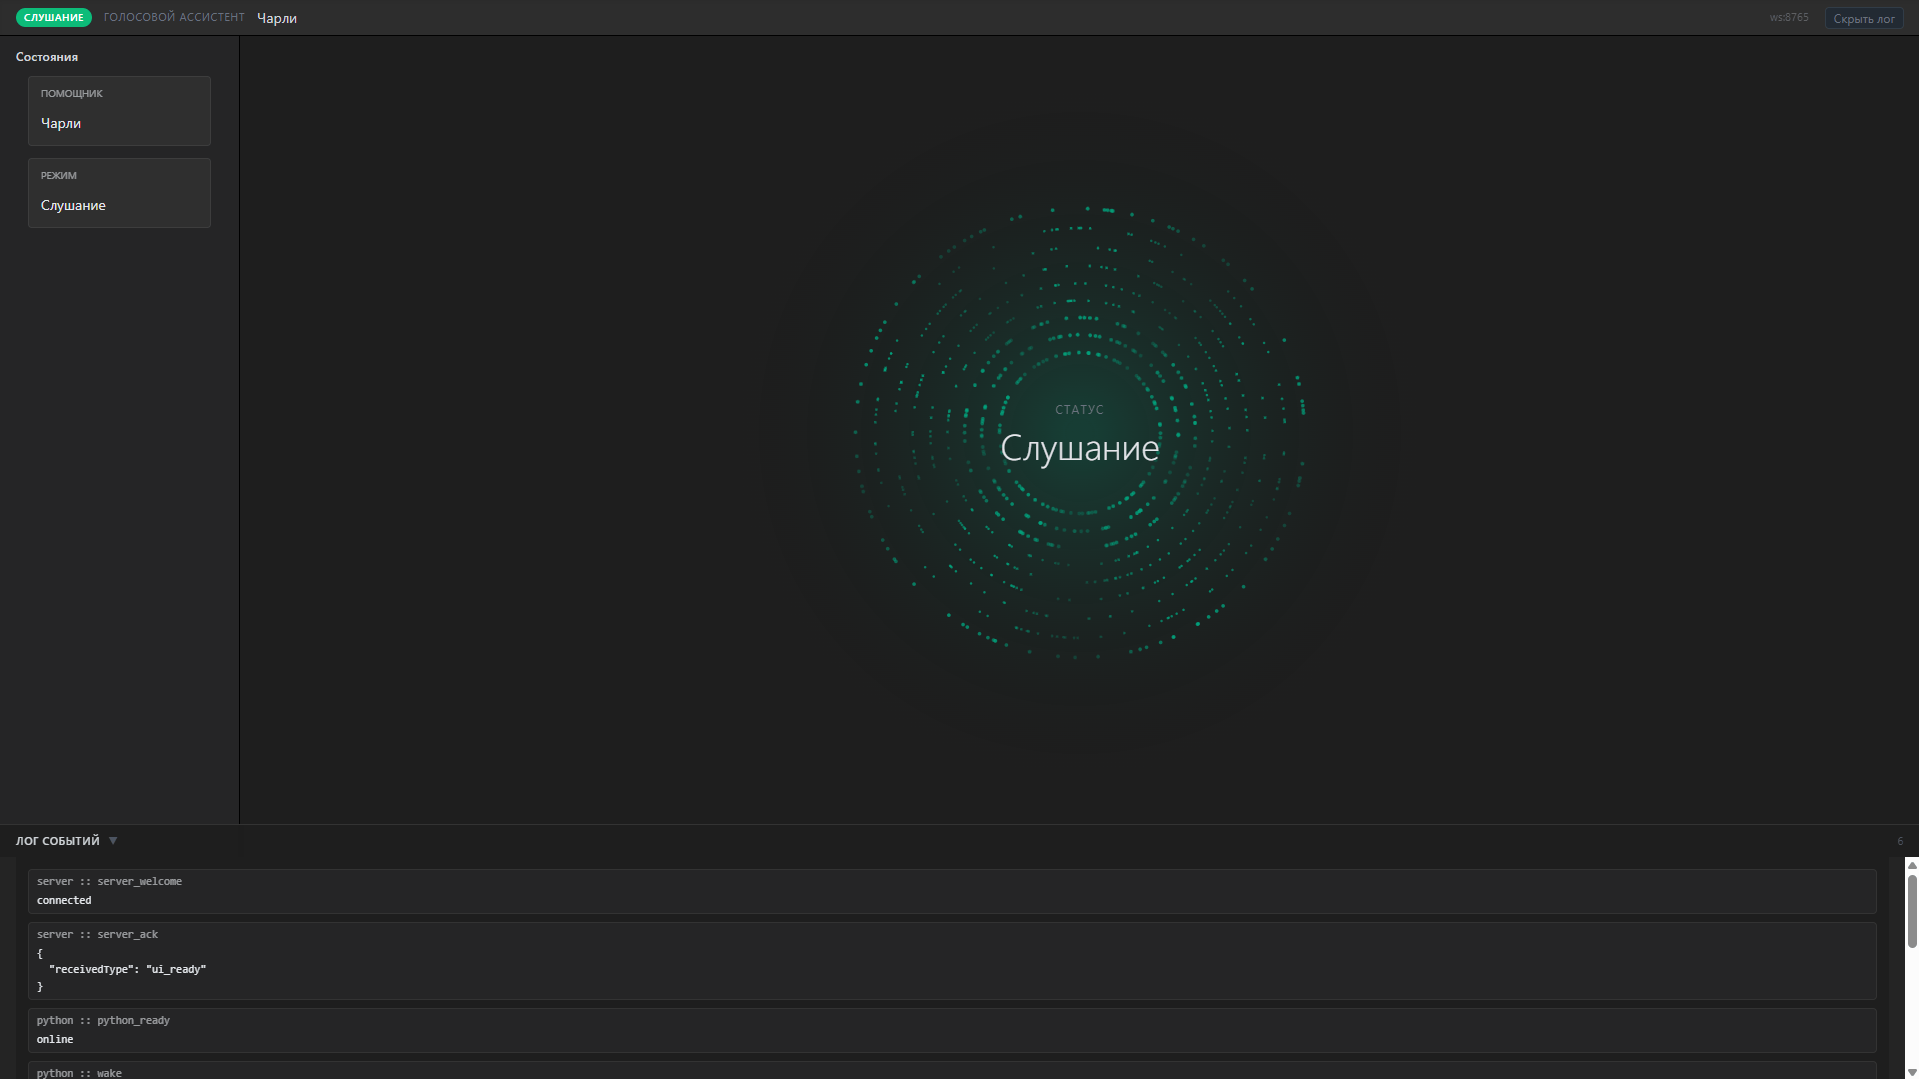
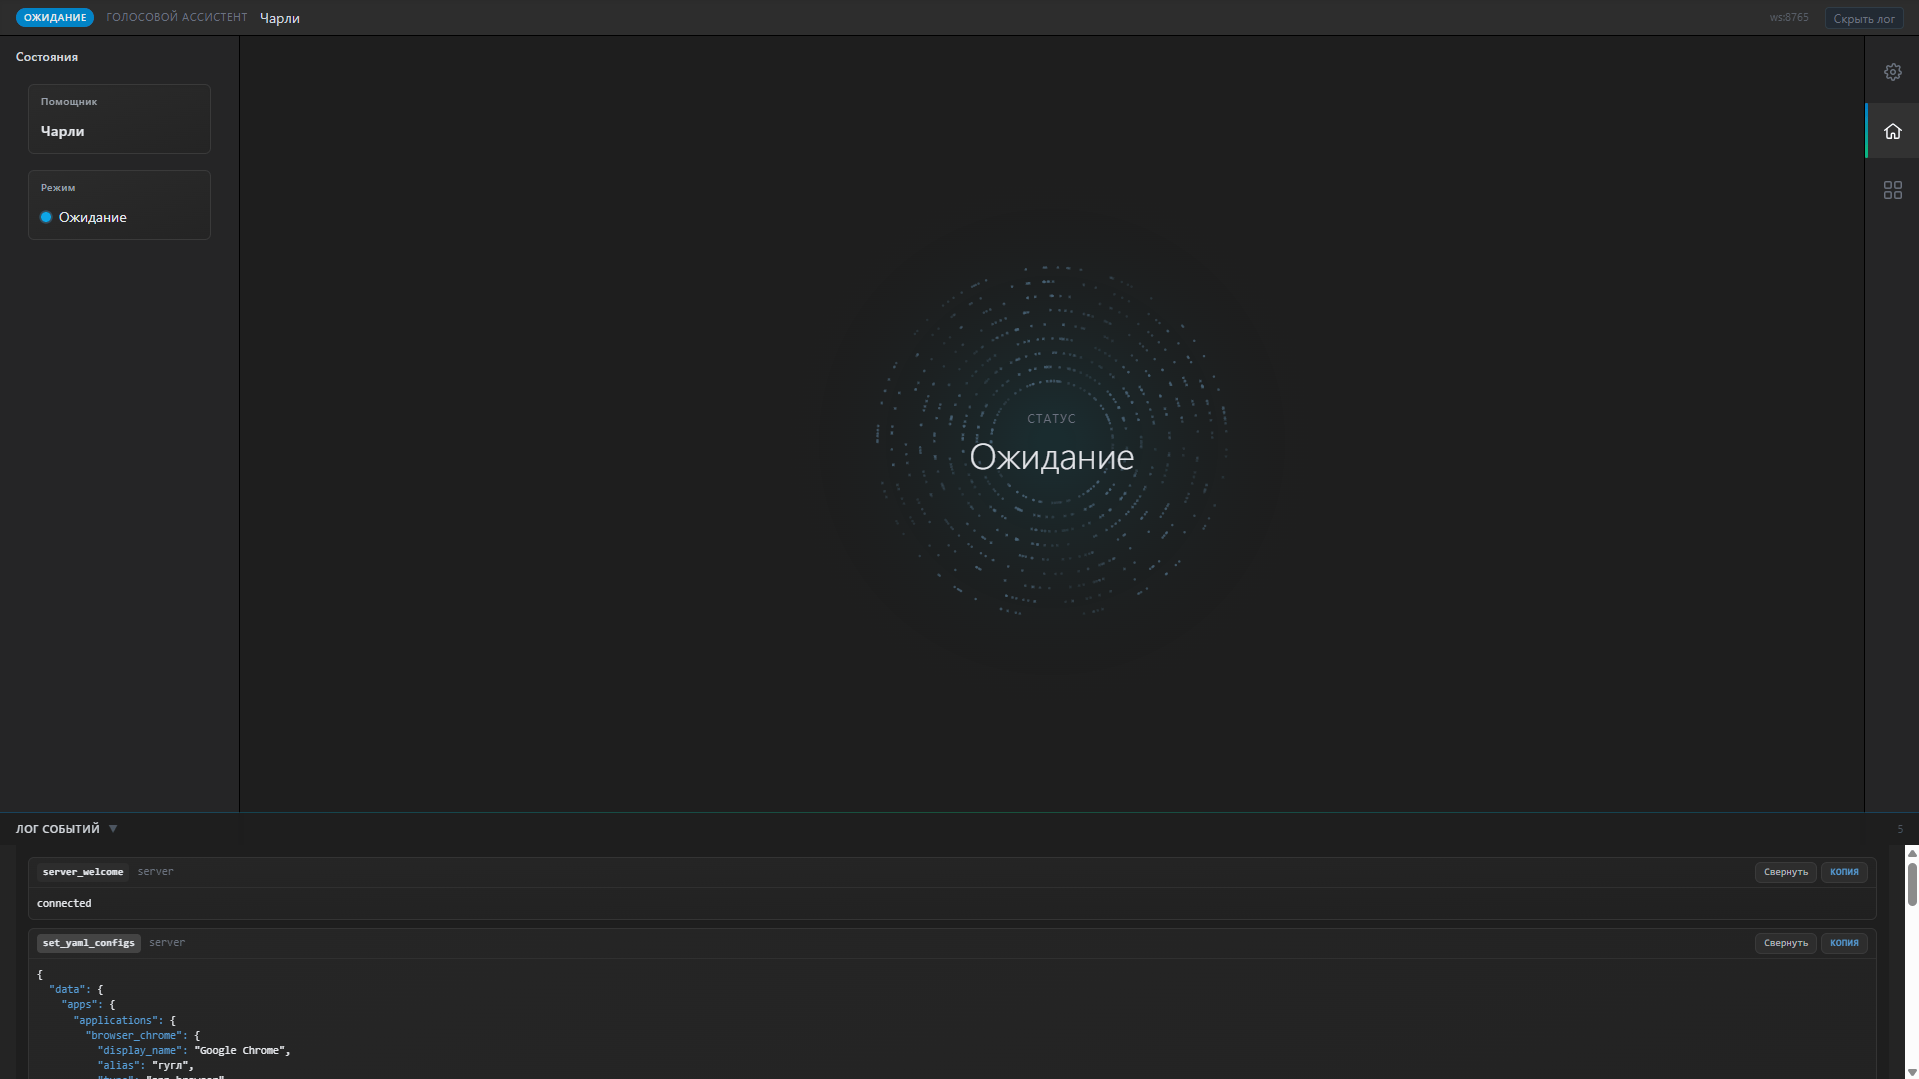
feat(UI): improved UI - Added widgets

diff --git a/src/app/ts/ui/organisms/EventLog.tsx b/src/app/ts/ui/organisms/EventLog.tsx
@@ -1,4 +1,5 @@
-import React, { useState, useMemo } from 'react';
+import React, { useState } from 'react';
+import { Toast } from '../atoms';
 
 interface Msg { type: string; payload: any; from?: string; _ts?: number }
 interface Props { messages: Msg[] }
@@ -10,8 +11,8 @@ function highlightJson(obj: any) {
     .replace(/(&)/g,'&amp;')
     .replace(/</g,'&lt;')
     .replace(/>/g,'&gt;')
-    .replace(/("(\\"|[^"])*"\s*:)/g, '<span class="text-[#569CD6]">$1</span>') // keys
-    .replace(/(:\s"(\\"|[^"])*")/g,'<span class="text-[#CE9178]">$1</span>') // string values
+    .replace(/("(\\"|[^"])*"\s*:)/g, '<span class="text-[#569CD6]">$1</span>')
+    .replace(/(:\s"(\\"|[^"])*")/g,'<span class="text-[#CE9178]">$1</span>')
     .replace(/\b(true|false|null)\b/g,'<span class="text-[#569CD6]">$1</span>')
     .replace(/\b(-?\d+(?:\.\d+)?)\b/g,'<span class="text-[#B5CEA8]">$1</span>');
 }
@@ -25,6 +26,7 @@ const typeColors: Record<string,string> = {
 
 const EventLog: React.FC<Props> = ({ messages }) => {
   const [expanded, setExpanded] = useState<Record<number, boolean>>({});
+  const [toasts, setToasts] = useState<{ id: number; message: string }[]>([]);
 
   const toggle = (i: number, defaultOpen: boolean) => setExpanded(e => {
     const current = e[i];
@@ -53,7 +55,12 @@ const EventLog: React.FC<Props> = ({ messages }) => {
                   className='relative px-2 py-0.5 rounded-md border border-[#3a3a3a] bg-[#2d2d2d] hover:border-[#4a4a4a] hover:bg-[#343434] text-gray-300/80 hover:text-gray-100 transition-colors text-[10px]'
                 >{isOpen?'Свернуть':'Развернуть'}</button>
                 <button
-                  onClick={()=>navigator.clipboard.writeText(typeof payload==='string'?payload:JSON.stringify(payload,null,2))}
+                  onClick={()=>{
+                    let id = Date.now(); 
+                    navigator.clipboard.writeText(typeof payload==='string'?payload:JSON.stringify(payload,null,2))
+                    setToasts(prev => [...prev, { id, message: 'Скопировано в буфер обмена' }]);
+                    setTimeout(() => setToasts(prev => prev.filter(t => t.id !== id)), 3500);
+                  }}
                   className='px-2 py-0.5 rounded-md border border-[#3a3a3a] bg-[#2d2d2d] hover:border-[#4a4a4a] hover:bg-[#343434] text-[#569CD6] hover:text-[#6ab8ff] text-[10px] font-semibold tracking-wide'
                 >КОПИЯ</button>
               </div>
@@ -67,6 +74,11 @@ const EventLog: React.FC<Props> = ({ messages }) => {
         );
       })}
       {messages.length===0 && <div className='opacity-50'>Нет событий</div>}
+      <div className='pointer-events-none fixed top-4 right-4 z-50 flex flex-col gap-3 max-w-sm'>
+        {toasts.map(t => (
+          <Toast key={t.id} title={t.message} />
+        ))}
+      </div>
     </div>
   );
 };

diff --git a/src/app/ts/ui/molecules/widgets/BatteryStatus.tsx b/src/app/ts/ui/molecules/widgets/BatteryStatus.tsx
@@ -1,0 +1,55 @@
+import { useEffect, useState } from "react";
+
+const BatteryStatus = () => {
+    const [level, setLevel] = useState<number|null>(null);
+    const [charging, setCharging] = useState<boolean|null>(null);
+
+    useEffect(() => {
+        let battery: any = null;
+        let mounted = true;
+        const nav = navigator as Navigator & { getBattery?: () => Promise<any> };
+        if (typeof nav.getBattery === 'function') {
+            nav.getBattery().then((b: any) => {
+                battery = b;
+                function update() {
+                    if (!mounted) return;
+                    setLevel(Math.round(battery.level * 100));
+                    setCharging(battery.charging);
+                }
+                update();
+                battery.addEventListener('levelchange', update);
+                battery.addEventListener('chargingchange', update);
+            });
+        }
+        return () => {
+            mounted = false;
+            if (battery) {
+                battery.removeEventListener('levelchange', ()=>{});
+                battery.removeEventListener('chargingchange', ()=>{});
+            }
+        };
+    }, []);
+
+    let color = level!==null && level<=20 ? 'from-red-500 to-red-700' : 'from-[#0dbc79] to-[#007acc]';
+    let icon = charging ? '⚡' : level!==null && level<=20 ? '🔋' : '🔌';
+    let label = charging===true ? 'Заряжается' : charging===false ? 'Не заряжается' : 'Батарея';
+    return (
+        <div className='pointer-events-none z-10'>
+            <div className='clock-card border-grad relative px-5 py-3 rounded-lg shadow-[0_4px_18px_-6px_rgba(0,0,0,0.65)] backdrop-blur-md min-w-[172px] overflow-hidden'>
+                <div className='absolute inset-0 opacity-[0.13] bg-[radial-gradient(circle_at_80%_15%,rgba(0,122,204,0.5),transparent_60%)]' />
+                <div className='relative'>
+                    <div className='flex items-center justify-between mb-1'>
+                        <div className='text-[10px] tracking-[0.2em] uppercase text-gray-500 font-medium'>БАТАРЕЯ</div>
+                        <div className={`h-[3px] w-8 rounded-full bg-gradient-to-r ${color} opacity-70`} />
+                    </div>
+                    <div className='flex items-end gap-2 leading-none'>
+                        <span className={`text-lg font-semibold ${level!==null && level<=20?'text-red-500':'text-[#0dbc79]'}`}>{icon} {level!==null? level+'%' : '—'}</span>
+                    </div>
+                    <div className='text-[11px] mt-1 text-gray-400 leading-snug'>{label}</div>
+                </div>
+            </div>
+        </div>
+    );
+};
+
+export default BatteryStatus;

diff --git a/src/app/ts/ui/molecules/widgets/TimeTracker.tsx b/src/app/ts/ui/molecules/widgets/TimeTracker.tsx
@@ -1,0 +1,38 @@
+import { useEffect, useState } from "react";
+
+const TimeTracker = () => {
+    const [, forceTick] = useState(0);
+    useEffect(()=>{ const id = setInterval(()=>forceTick(x=>x+1),1000); return ()=>clearInterval(id); },[]);
+    const now = new Date();
+    const hh = now.getHours().toString().padStart(2,'0');
+    const mm = now.getMinutes().toString().padStart(2,'0');
+    const ss = now.getSeconds().toString().padStart(2,'0');
+    const dateStr = now.toLocaleDateString('ru-RU', { weekday:'long', day:'numeric', month:'long'});
+    const gmt = now.getTimezoneOffset() / -60;
+
+    return (
+        <div className='pointer-events-none z-10'>
+            <div className='clock-card border-grad relative px-5 py-3 rounded-lg shadow-[0_4px_18px_-6px_rgba(0,0,0,0.65)] backdrop-blur-md min-w-[172px] overflow-hidden'>
+                <div className='absolute inset-0 opacity-[0.18] bg-[radial-gradient(circle_at_80%_15%,rgba(0,122,204,0.6),transparent_60%)]' />
+                    <div className='relative'>
+                        <div className='flex items-center justify-between mb-1'>
+                            <div className='text-[10px] tracking-[0.2em] uppercase text-gray-500 font-medium'>ВРЕМЯ</div>
+                            <div className='h-[3px] w-8 rounded-full bg-gradient-to-r from-[#007acc] to-[#0dbc79] opacity-70' />
+                        </div>
+                        <div className='flex items-end gap-1 leading-none'>
+                            <span className='time-gradient text-[40px] font-light -tracking-[1px] tabular-nums'>{hh}:{mm}</span>
+                            <span className='text-sm font-medium text-gray-400 pb-1'>:{ss}</span>
+                        </div>
+                    <div className='text-[11px] mt-1 text-gray-400 capitalize leading-snug'>
+                        {dateStr}
+                    </div>
+                    <div className='text-[11px] mt-1 text-gray-400 capitalize leading-snug'>
+                        {gmt >= 0 ? `GMT+${gmt}` : `GMT${gmt}`}
+                    </div>
+                </div>
+            </div>
+        </div>
+    )
+}
+
+export default TimeTracker;

diff --git a/src/app/ts/ui/molecules/StatePanel.tsx b/src/app/ts/ui/molecules/StatePanel.tsx
@@ -10,24 +10,33 @@ const StatePanel: React.FC<Props> = ({ assistantName, mode }) => {
   if (!ctx?.states) return null;
 
   const stateColors = {
-    'listening': 'bg-emerald-400',
-    'waiting': 'bg-sky-500',
-    'initializing': 'bg-red-400'
+    'listening': {
+      main: 'bg-emerald-400',
+      alphaGradient: 'rgba(20,184,166,0.12)'
+    },
+    'waiting': {
+      main: 'bg-sky-500',
+      alphaGradient: 'rgba(0,112,204,0.12)'
+    },
+    'initializing': {
+      main: 'bg-red-400',
+      alphaGradient: 'rgba(255,0,0,0.12)'
+    }
   }
 
   return (
     <div className='px-3 pb-4 pt-2 space-y-4 overflow-y-auto h-full custom-scrollbar relative'>
       <div className='relative'>
         <div/>
-        <Card className='shadow-inner backdrop-blur-[1px]' title='Помощник'>
+        <Card className='shadow-inner backdrop-blur-[1px]' title='Помощник' gradientColor={stateColors[mode as keyof typeof stateColors].alphaGradient}>
           <div className='text-sm font-medium tracking-wide'>{assistantName || '—'}</div>
         </Card>
       </div>
-      <Card title='Режим'>
+      <Card title='Режим' gradientColor={stateColors[mode as keyof typeof stateColors].alphaGradient}>
         <div className='text-sm flex items-center gap-2'>
           <span className='relative flex h-2.5 w-2.5'>
-            <span className='animate-ping absolute inline-flex h-full w-full rounded-full bg-sky-400 opacity-40'></span>
-            <span className={`relative inline-flex rounded-full h-2.5 w-2.5 ${stateColors[mode as keyof typeof stateColors]}`}></span>
+            <span className={`animate-ping absolute inline-flex h-full w-full rounded-full ${stateColors[mode as keyof typeof stateColors].main} opacity-40`}></span>
+            <span className={`relative inline-flex rounded-full h-2.5 w-2.5 ${stateColors[mode as keyof typeof stateColors].main}`}></span>
           </span>
           {ctx.states[mode]}
         </div>

diff --git a/src/app/ts/ui/atoms/Card.tsx b/src/app/ts/ui/atoms/Card.tsx
@@ -1,9 +1,9 @@
 import React from 'react';
-interface Props { title?: string; children: React.ReactNode; className?: string }
-const Card: React.FC<Props> = ({ title, children, className='' }) => (
+interface Props { title?: string; children: React.ReactNode; className?: string, gradientColor: string }
+const Card: React.FC<Props> = ({ title, children, className='', gradientColor }) => (
   <div className={`relative rounded-md border border-[#3a3a3a] bg-gradient-to-br from-[#2b2b2b] to-[#242424] overflow-hidden group ${className}`}>
     <div className='absolute inset-0 opacity-0 group-hover:opacity-100 transition-opacity duration-500 pointer-events-none'
-         style={{background:'radial-gradient(circle at 80% 20%, rgba(0,122,204,0.12), transparent 60%)'}} />
+         style={{background:`radial-gradient(circle at 80% 20%, ${gradientColor}, transparent 60%)`}} />
     {title && <div className='text-[10px] font-medium tracking-wider text-gray-400 px-3 pt-2 select-none'>{title}</div>}
     <div className='p-3 text-xs leading-relaxed whitespace-pre-wrap break-words relative z-10'>{children}</div>
   </div>

diff --git a/src/app/ts/ui/organisms/Visualizer.tsx b/src/app/ts/ui/organisms/Visualizer.tsx
@@ -1,5 +1,6 @@
 import React, { useEffect, useRef } from 'react';
 import { GContext } from '../../providers';
+import { TimeTracker, BatteryStatus } from '../molecules/widgets';
 
 interface Props {
   mode: string;
@@ -116,6 +117,10 @@ const Visualizer: React.FC<Props> = ({ mode, systemReady = true }) => {
   return (
     <div className='w-full h-full relative select-none'>
       <canvas ref={canvasRef} className='w-full h-full block' />
+      <div className="absolute top-4 right-6 flex flex-row gap-4 pointer-events-none z-20">
+        <BatteryStatus />
+        <TimeTracker />
+      </div>
       <div className='absolute inset-0 pointer-events-none flex items-center justify-center'>
         <div className='text-center'>
           <div className='text-xs tracking-widest uppercase text-gray-500 mb-2'>СТАТУС</div>

diff --git a/src/app/css/index.css b/src/app/css/index.css
@@ -38,3 +38,8 @@ body {
 .dragging-border-animate { background:linear-gradient(90deg,#007acc,#0dbc79,#007acc); background-size:200% 100%; animation: borderRun 1.4s linear infinite; }
 @keyframes borderRun { 0% { background-position:0 0;} 100% {background-position:200% 0;} }
 
+/* Clock widget theming */
+.time-gradient { background:linear-gradient(120deg,#e6f6ff,#b9f6e4 60%,#c0f0ff); -webkit-background-clip:text; background-clip:text; color:transparent; filter:drop-shadow(0 0 4px rgba(0,0,0,.35)); }
+.clock-card:before { content:""; position:absolute; inset:0; background:linear-gradient(140deg,rgba(0,122,204,0.18),rgba(13,188,121,0.1)); opacity:.35; mix-blend-mode:overlay; pointer-events:none; }
+.clock-card:hover:before { opacity:.55; }
+

diff --git a/src/app/ts/ui/molecules/AppCard.tsx b/src/app/ts/ui/molecules/AppCard.tsx
@@ -39,7 +39,7 @@ const AppCard: React.FC<{ appKey: string; cfg: AppConfig }> = ({ appKey, cfg }) 
                     <span className='truncate max-w-[110px]' title={cfg.path}>{fileName}</span>
                     <span className='flex items-center gap-1 text-[#007acc] opacity-0 group-hover:opacity-100 transition-all duration-300 translate-x-2 group-hover:translate-x-0'>
                         <svg width='10' height='10' viewBox='0 0 24 24' className='opacity-70'><path fill='currentColor' d='M10 4v2H5v13h13v-5h2v6H3V4h7zm9-2v8h-2V6.414l-7.793 7.793-1.414-1.414L15.586 5H12V3h7z'/></svg>
-                        Открыть
+                        Перейти
                     </span>
                 </div>
             </div>

diff --git a/src/app/ts/ui/templates/MainLayout.tsx b/src/app/ts/ui/templates/MainLayout.tsx
@@ -100,7 +100,6 @@ export const MainLayout: React.FC<Props> = ({ assistantName, mode, transcript, m
         </div>
       </div>
       <div className={`absolute left-0 right-0 bottom-0 z-20 bg-[#1e1e1e]/95 backdrop-blur-[2px] flex flex-col`} style={{height: logOpen ? logHeight : 32, transition: dragging ? 'none':'height 0.25s ease'}}>
-        {/* Top drag handle (larger hit area) */}
         {logOpen && (
           <div
             onMouseDown={onDragStart}

diff --git a/src/app/ts/ui/molecules/widgets/index.ts b/src/app/ts/ui/molecules/widgets/index.ts
@@ -1,0 +1,7 @@
+import TimeTracker from "./TimeTracker";
+import BatteryStatus from "./BatteryStatus";
+
+export {
+    TimeTracker,
+    BatteryStatus
+};

diff --git a/README.md b/README.md
@@ -46,7 +46,7 @@
 │  • Атомарный UI + визуализация   │
 │  • Лог, состояния, матрица       │
 └──────────────┬───────────────────┘
-               │ ws сообщения
+               │ WS сообщения
 ┌──────────────▼───────────────────┐
 │   Python (assistant/)            │
 │   • main.py                      │
@@ -113,7 +113,9 @@ resources/models/voice_small
 Проверь путь в `.env` (VOICE_RECOGNITION_MODEL_DIR_PATH).
 
 ### 5. Обучение модели
-1) По умолчанию модель имеет 3 датасета, лежащие в директории resources/datasets
+1) По умолчанию модель имеет 5 датасетов, лежащие в директории resources/datasets
+    - system_brightness.txt
+    - system_volume.txt
     - create_project.txt
     - open_project.txt
     - open_app.txt
@@ -125,7 +127,7 @@ resources/models/voice_small
 где \t - табуляция
 
 2) Для переобучения/дообучения модели используйте команду:
-    - python main.py --train (она автоматически соберёт все .txt датасеты в 1 и переобучит модель)
+    - .\start --tr (она автоматически соберёт все .txt датасеты в 1 и переобучит модель)
 
 ### 6. YAML-конфигурация
 Шаблоны конфигурации находятся в директории resources/configs (добавлять новые сущности по следующим примерам):
